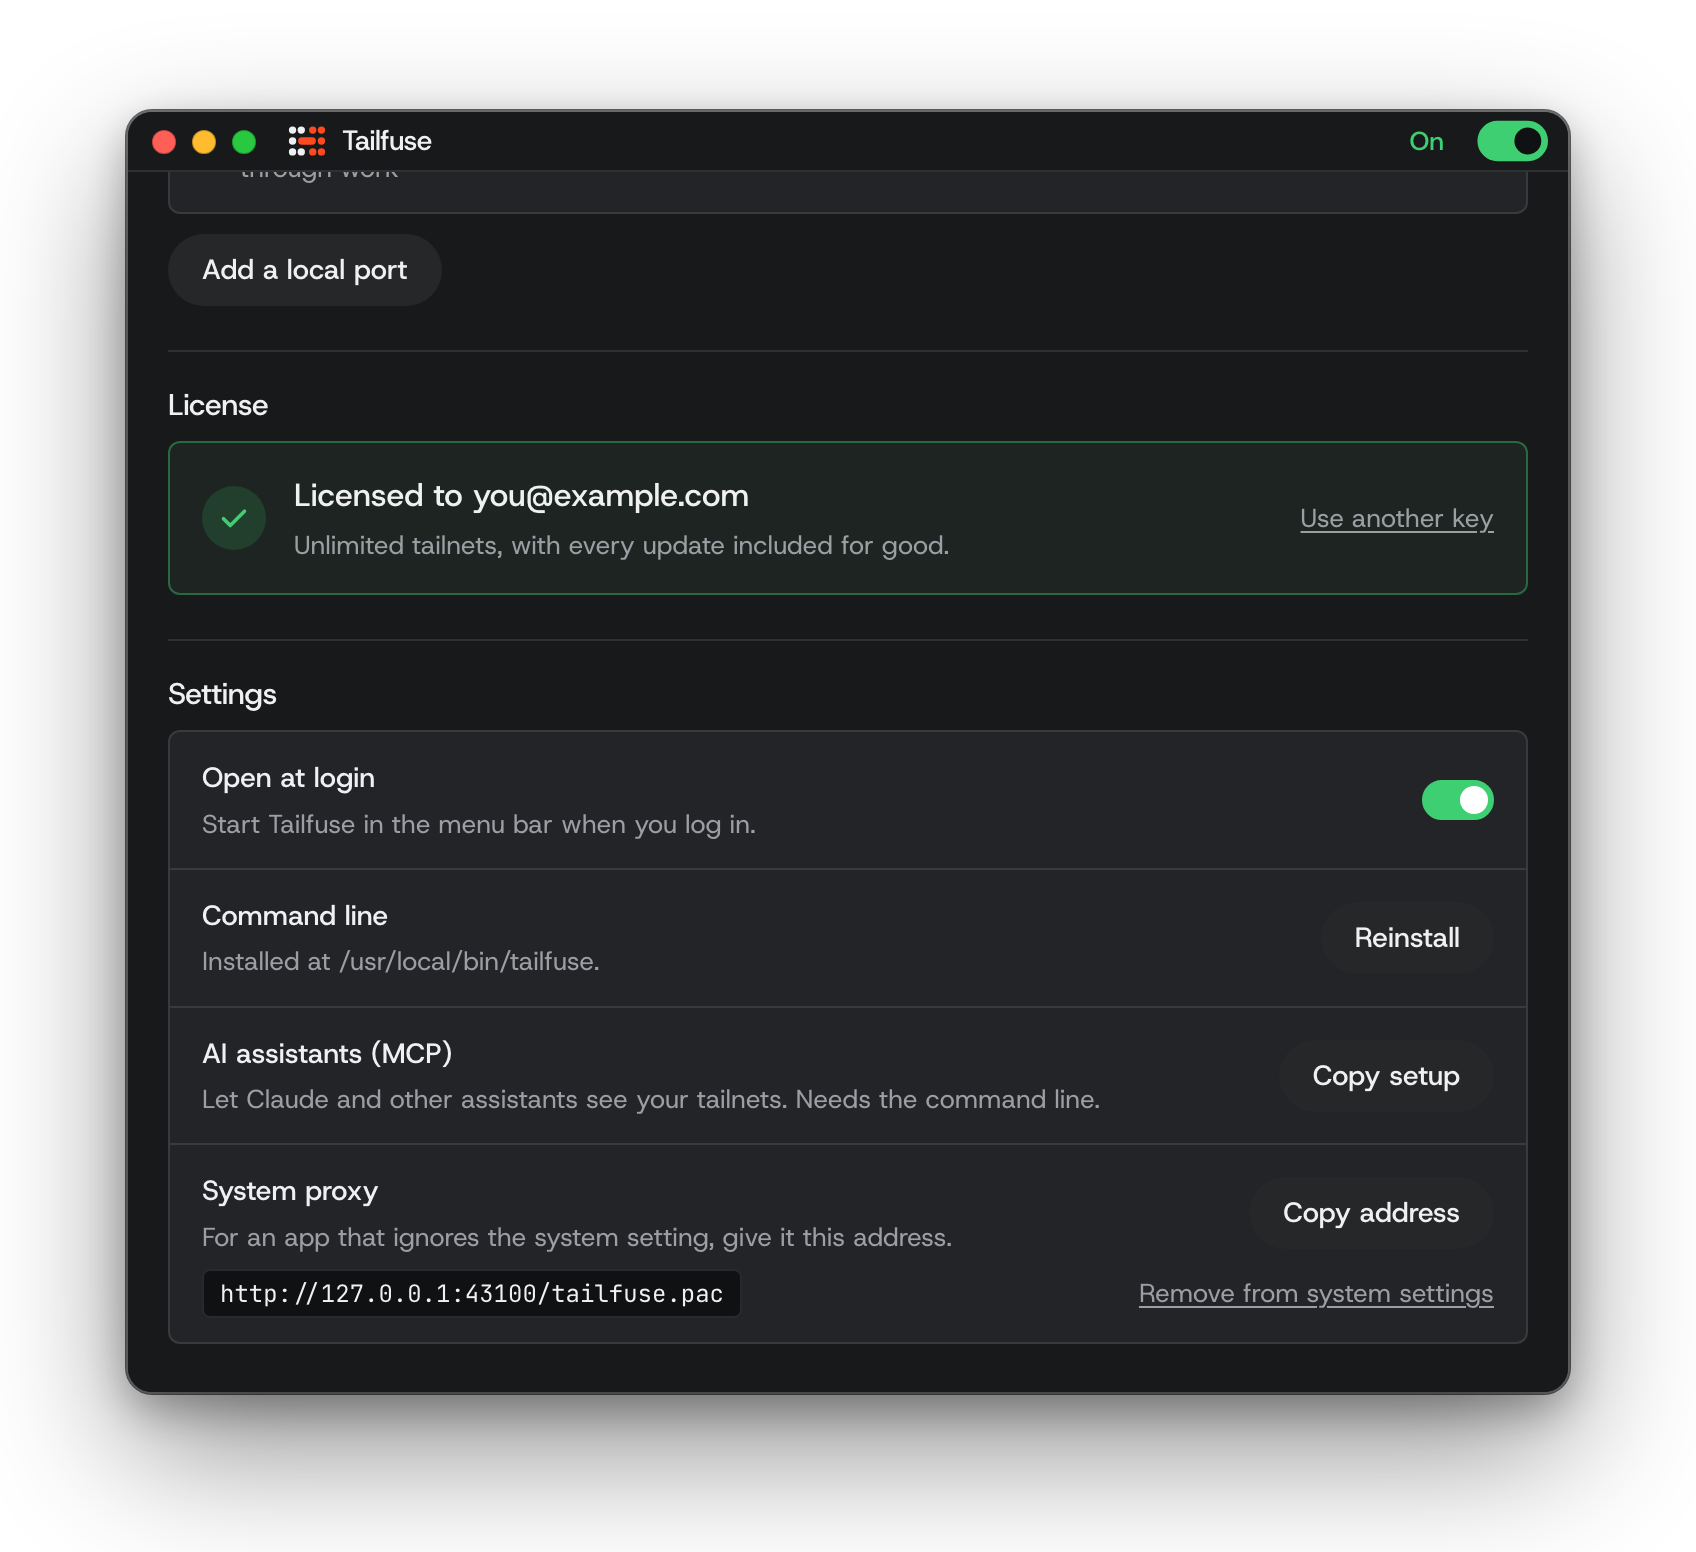
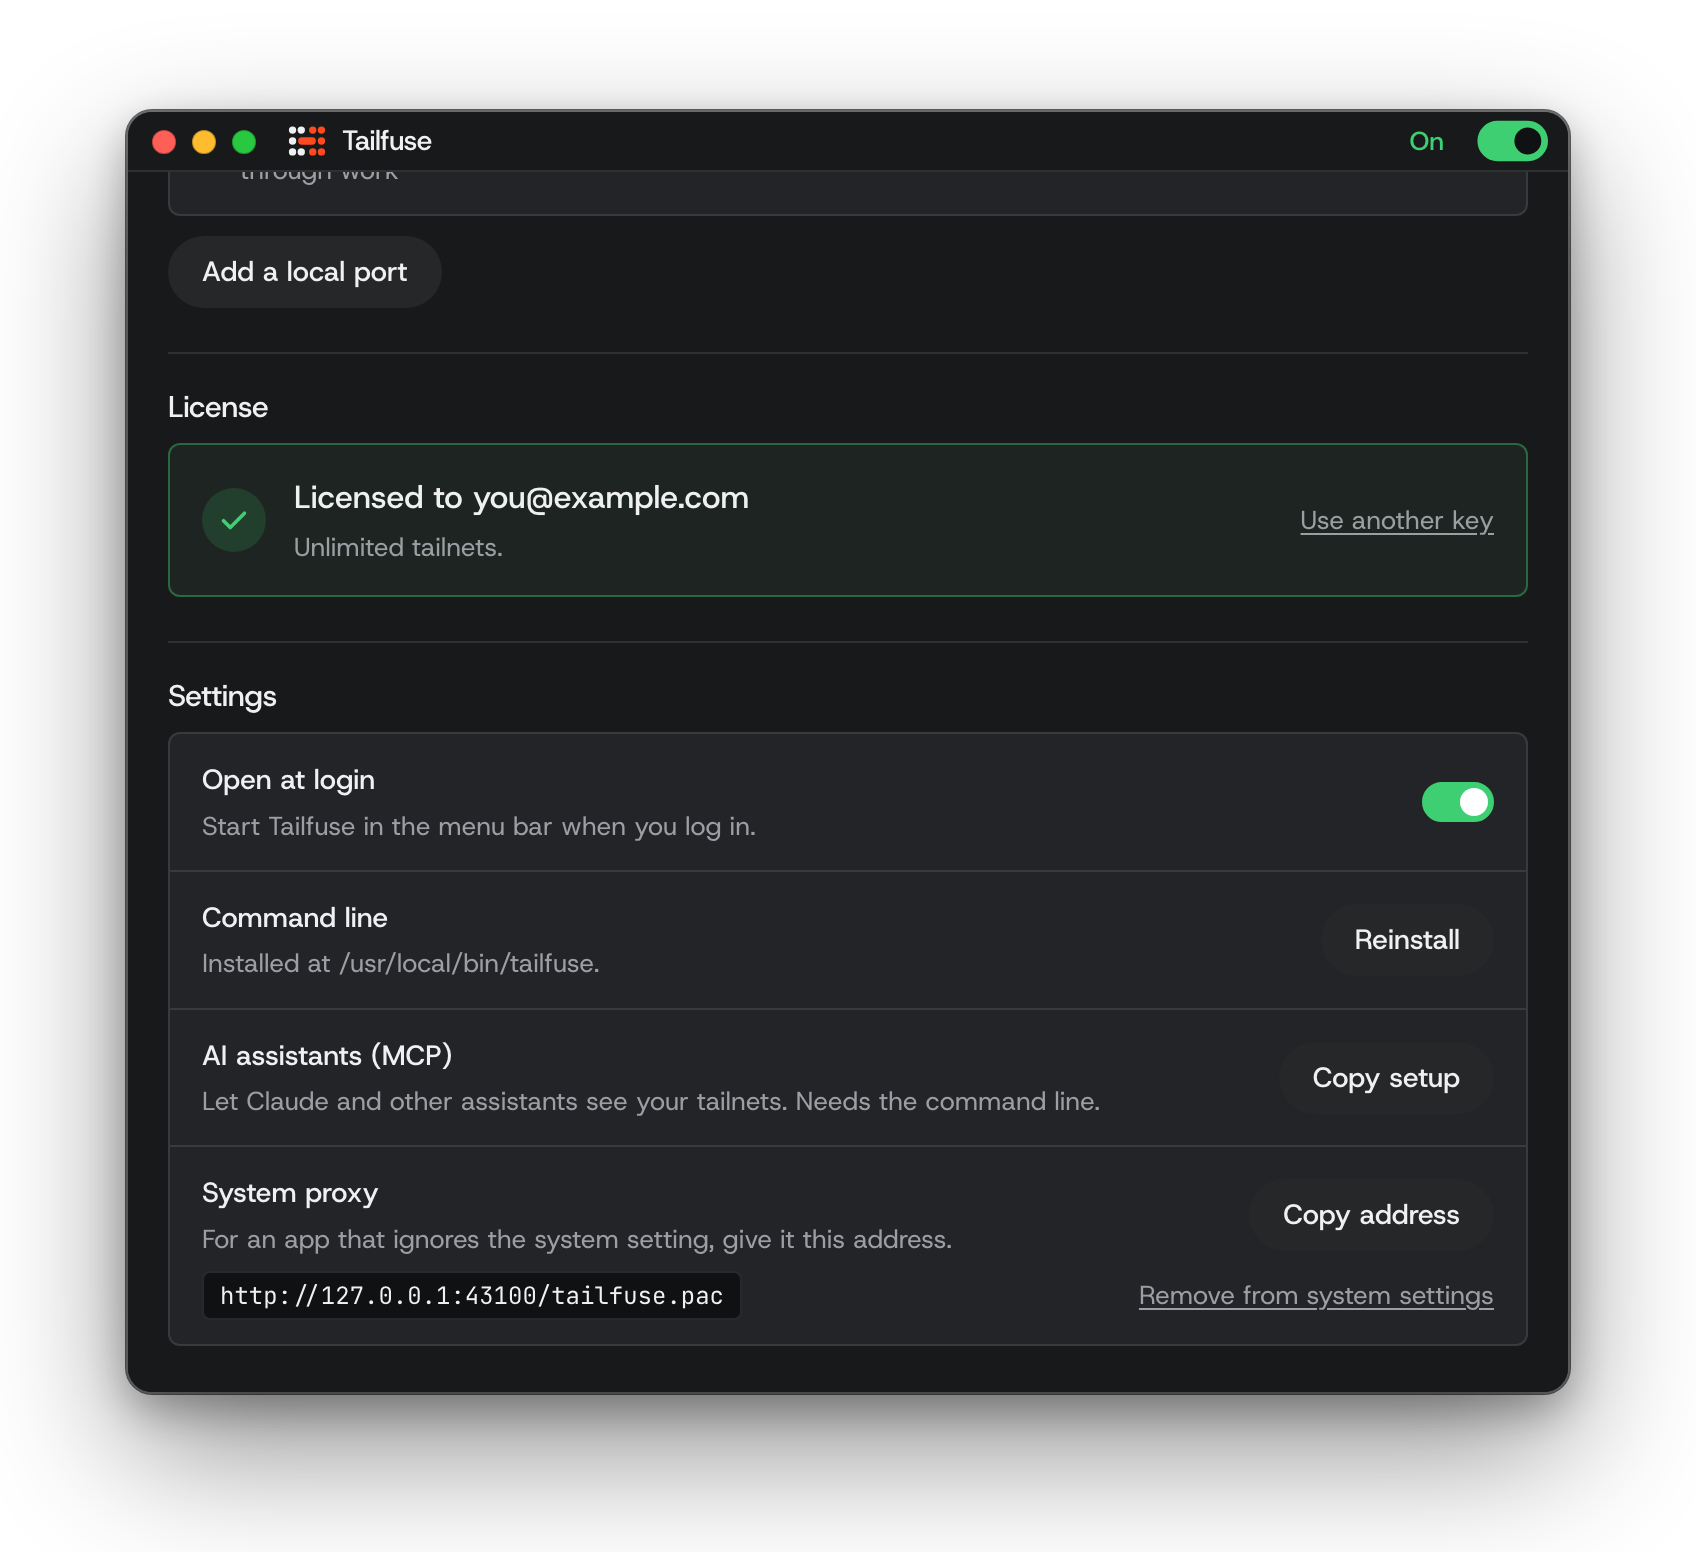
License card and activation message: just 'Unlimited tailnets'

diff --git a/app/src/index.html b/app/src/index.html
@@ -120,7 +120,7 @@
           <span class="licensed-icon" aria-hidden="true"><svg viewBox="0 0 24 24" width="18" height="18" fill="none" stroke="currentColor" stroke-width="2.4" stroke-linecap="round" stroke-linejoin="round"><path d="M5 12.5l4.5 4.5L19 7.5"></path></svg></span>
           <div class="licensed-text">
             <strong>Licensed to <span id="licensed-to"></span></strong>
-            <span>Unlimited tailnets, with every update included for good.</span>
+            <span>Unlimited tailnets.</span>
           </div>
           <button type="button" class="link-btn" id="change-key" aria-expanded="false" aria-controls="activate">Use another key</button>
         </div>

diff --git a/app/src-tauri/src/lib.rs b/app/src-tauri/src/lib.rs
@@ -882,7 +882,7 @@ async fn activate_license(state: State<'_, SharedState>, key: String) -> Result<
     cfg.license = key;
     cfg.save(&state.cfg_path).map_err(|e| e.to_string())?;
     Ok(format!(
-        "activated for {}. Unlimited tailnets and every update, for good",
+        "activated for {}. Unlimited tailnets",
         lic.email
     ))
 }
